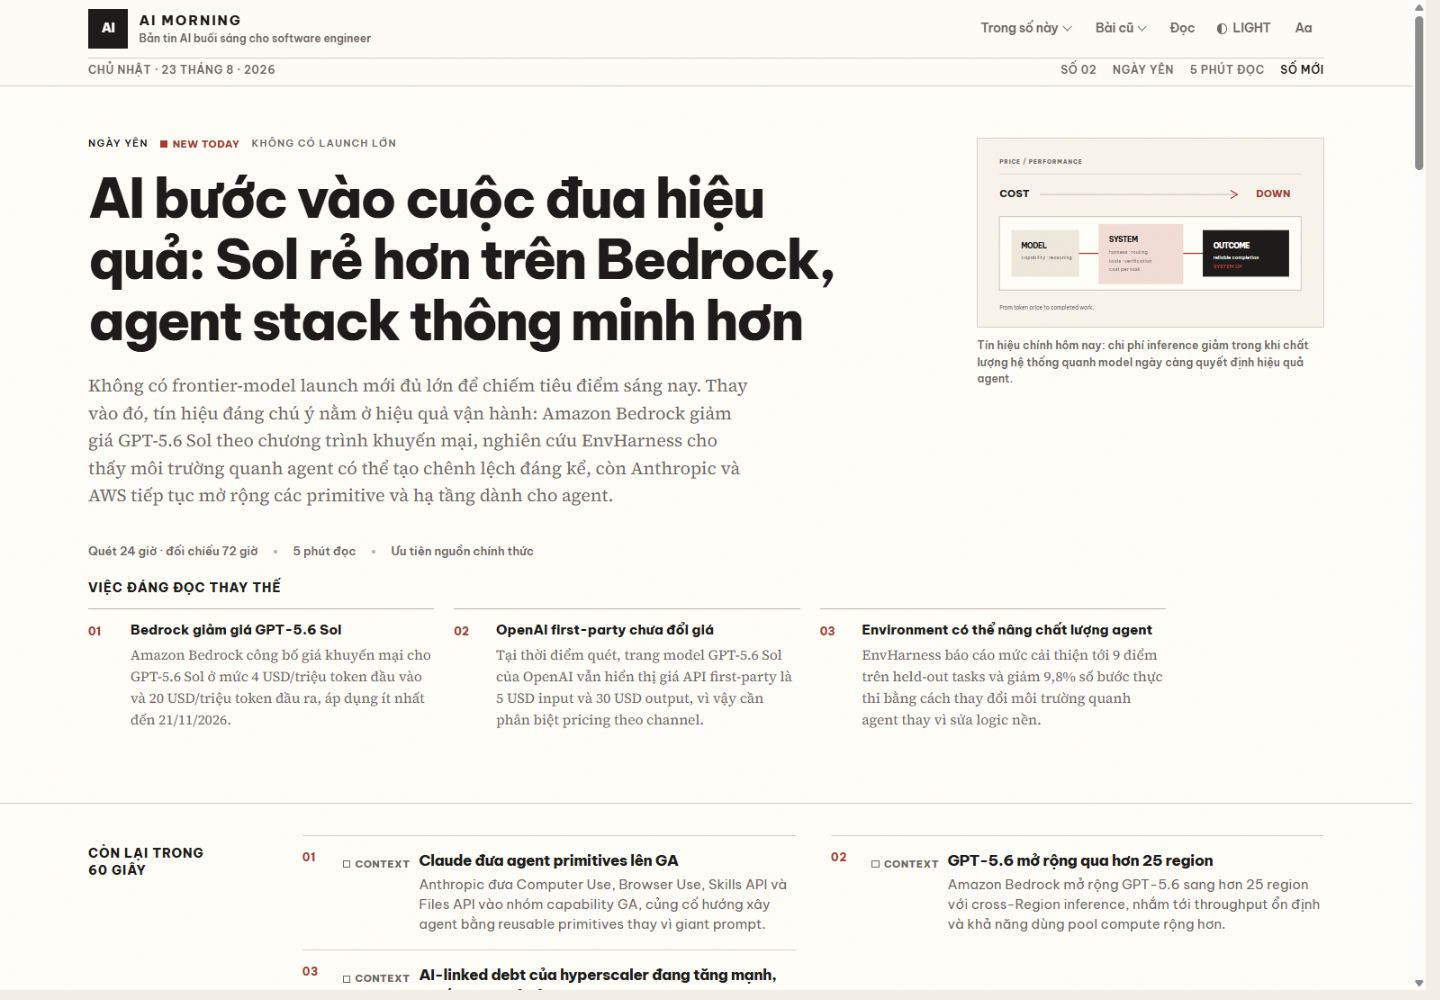
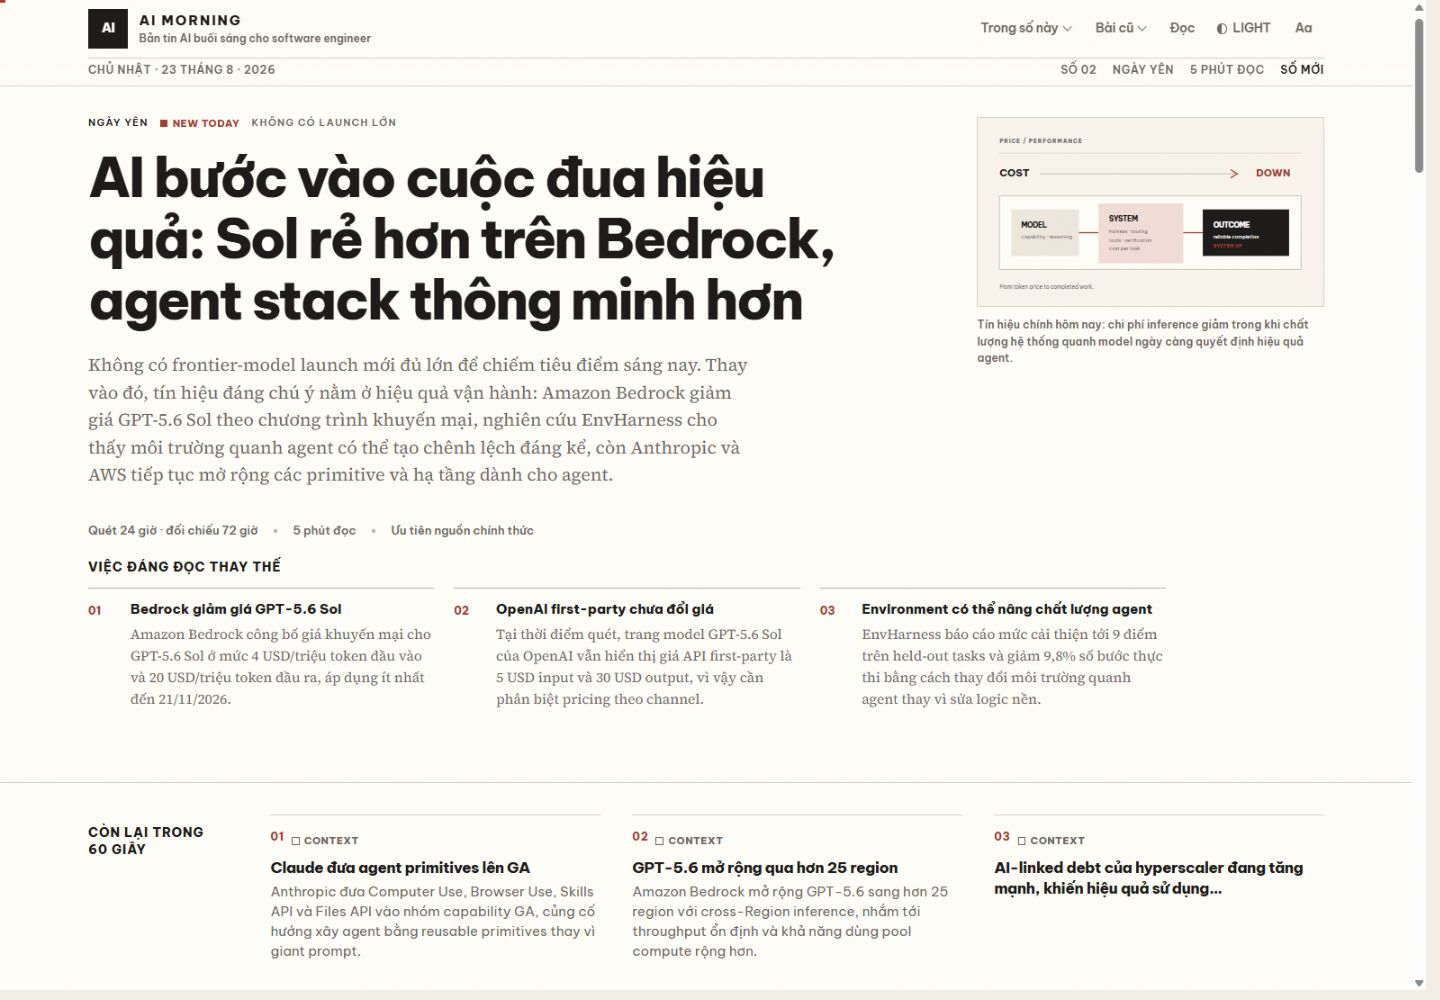
style: enhance layout and spacing in CSS for improved readability

diff --git a/assets/site.css b/assets/site.css
@@ -91,6 +91,8 @@
   --font-editorial: "Source Serif 4", Georgia, "Times New Roman", serif;
   --page: 78rem;
   --article: 68ch;
+  --editorial-kicker: 9.5rem;
+  --editorial-gap: 2rem;
   --ease: cubic-bezier(0.16, 1, 0.3, 1);
 }
 
@@ -829,8 +831,8 @@ figcaption {
   padding: 2rem max(1.25rem, calc((100% - var(--page)) / 2)) 2.4rem;
   border-bottom: 1px solid var(--line);
   display: grid;
-  grid-template-columns: 11rem minmax(0, 1fr);
-  gap: 2.5rem;
+  grid-template-columns: var(--editorial-kicker) minmax(0, 1fr);
+  column-gap: var(--editorial-gap);
 }
 
 .section-label {
@@ -852,13 +854,19 @@ figcaption {
   counter-reset: briefing;
 }
 
+.briefing--compact ol {
+  grid-template-columns: repeat(3, minmax(0, 1fr));
+  gap: 0 2rem;
+}
+
 .briefing li {
   min-width: 0;
   padding: 0.85rem 0 1rem;
   border-top: 1px solid var(--line);
   display: grid;
-  grid-template-columns: 2rem auto minmax(0, 1fr);
-  gap: 0.55rem;
+  grid-template-columns: auto minmax(0, 1fr);
+  align-content: start;
+  gap: 0.45rem;
   font-size: 0.95rem;
   font-weight: 600;
   line-height: 1.4;
@@ -866,6 +874,7 @@ figcaption {
 }
 
 .briefing__copy {
+  grid-column: 1 / -1;
   display: grid;
   gap: 0.28rem;
 }
@@ -883,7 +892,7 @@ figcaption {
 }
 
 .briefing__freshness {
-  padding-top: 0.16rem;
+  align-self: start;
 }
 
 .briefing li::before {
@@ -927,9 +936,9 @@ figcaption {
   padding-top: 0.8rem;
   border-top: 0.24rem solid var(--text);
   display: grid;
-  grid-template-columns: minmax(8rem, 0.34fr) minmax(0, 1fr);
+  grid-template-columns: var(--editorial-kicker) minmax(0, 1fr);
   align-items: baseline;
-  gap: 1.5rem;
+  column-gap: var(--editorial-gap);
   font-family: var(--font-ui);
 }
 
@@ -1320,7 +1329,7 @@ figcaption {
 }
 
 .release-list {
-  border-top: 0.2rem solid var(--text);
+  border-top: 1px solid var(--line);
 }
 
 .release-list--grid {
@@ -1785,6 +1794,10 @@ html[data-reading="true"] .edition-body {
   .edition-body {
     grid-template-columns: minmax(0, 1fr) 12.5rem;
     gap: 3rem;
+  }
+
+  .briefing--compact ol {
+    grid-template-columns: repeat(2, minmax(0, 1fr));
   }
 
   .lead-story__opening,
